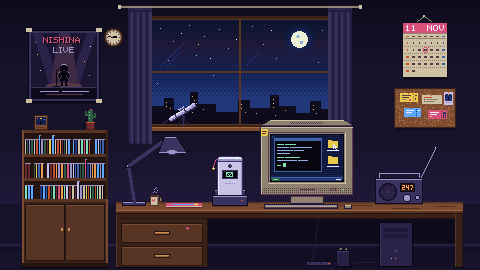
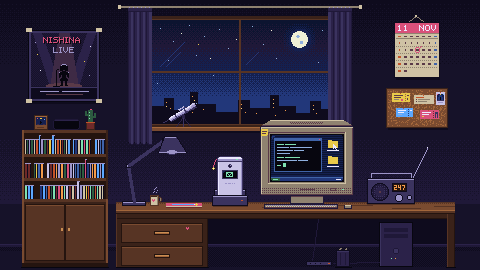
feat(home): 房間的名牌只寫去哪、右邊那組往左挪、掛鐘換成書櫃上的數位鬧鐘
- 名牌拿掉物品名稱, 只留點了會去哪 (しっぽ 只框不寫); 觸控直接點就進去, 不用點兩下
- 月曆、軟木板、しっぽ、收音機一起往左 8 格 (天線跟愛心照樣差 1 格), 桌子跟著收在しっぽ底下
- 掛鐘拿掉, 書櫃上相框跟仙人掌中間放一台黑底綠字的鬧鐘, 跟著現在的時間走, 2:47 / 14:47 變粉紅

diff --git a/public/js/room.js b/public/js/room.js
@@ -2,16 +2,16 @@
  *
  * 房間是 480×270 的像素畫: 依畫面算一個倍率 --s, 對齊螢幕實體像素, 放大後每一格一樣大。
  * 直的螢幕塞不下就照高度放大、左右滑著看, 一開始停在手機那邊。
- * 熱區: 滑鼠滑過去出現名牌; 觸控裝置第一下先看名牌, 再點一下才進去。
+ * 熱區: 滑鼠滑過去四個角框起來, 名牌只寫點了會去哪; 觸控直接點就進去。
  * 手機 = 把網頁版 N247i 拿起來 (疊一層, 闔上就放回去); 電腦 = 指令列; しっぽ 點了會晃; 檯燈可以開關 (記在瀏覽器)。
- * 海報 = 今日の一曲的封面 (跟 N247i 待受同一首), 用房間的色盤重畫; 月曆每天自己翻到今天, 圈下一場。
+ * 海報 = 今日の一曲的封面 (跟 N247i 待受同一首), 用房間的色盤重畫; 月曆每天自己翻到今天, 圈下一場;
+ * 書櫃上的鬧鐘是現在幾點 (2:47 / 14:47 會變粉紅)。
  */
 (() => {
   const root = document.querySelector('[data-room]');
   if (!root) return;
   const pan = root.querySelector('.rm-pan'), stage = root.querySelector('.rm-stage'), tip = root.querySelector('.rm-tip');
   const shippo = stage.querySelector('.rm-shippo');
-  const coarse = matchMedia('(pointer: coarse)').matches;
   const still = matchMedia('(prefers-reduced-motion: reduce)').matches;
   const W = 480, H = 270, PHONE_X = 230;
   const v = (el, k) => +el.style.getPropertyValue('--' + k);
@@ -40,23 +40,20 @@
   function showTip(el) {
     if (cur && cur !== el) cur.classList.remove('on');
     cur = el; el.classList.add('on');
-    tip.querySelector('b').textContent = el.dataset.name;
-    tip.querySelector('i').textContent = el.dataset.sub;
+    tip.textContent = el.dataset.sub;
+    if (!el.dataset.sub) return tip.classList.remove('show');   // しっぽ 只框不寫
     place(el); tip.classList.add('show');
   }
   function hideTip() { if (cur) cur.classList.remove('on'); cur = null; tip.classList.remove('show'); }
 
   /* ---------- 點了之後 ---------- */
   const ACTS = { phone: pickUp, cli: () => window.__shellCli?.open(), shippo: swing, lamp: () => setLamp(!lampOn), none() {} };
-  let armed = true;
   stage.querySelectorAll('.rm-hs').forEach(el => {
     el.addEventListener('pointerenter', e => { if (e.pointerType === 'mouse') { showTip(el); if (el.dataset.act === 'shippo') swing(); } });
     el.addEventListener('pointerleave', e => { if (e.pointerType === 'mouse' && cur === el) hideTip(); });
-    el.addEventListener('pointerdown', e => { armed = e.pointerType === 'mouse' || cur === el; });
     el.addEventListener('focus', () => showTip(el));
     el.addEventListener('blur', () => { if (cur === el) hideTip(); });
     el.addEventListener('click', e => {
-      if (coarse && !armed) { e.preventDefault(); showTip(el); armed = true; return; }   // 觸控: 第一下先看名牌
       const act = el.dataset.act;
       if (!act) return;   // 連結照常走
       e.preventDefault();
@@ -93,7 +90,7 @@
   const BAYER = [0, 8, 2, 10, 12, 4, 14, 6, 3, 11, 1, 9, 15, 7, 13, 5];
   function drawPoster(song) {
     const spot = stage.querySelector('[data-k="poster"]');
-    spot.href = `/live/full/${song.id}/`; spot.dataset.name = '今日の一曲'; spot.dataset.sub = `${song.title} · 完整 Live`;
+    spot.href = `/live/full/${song.id}/`; spot.dataset.sub = `${song.title} · 完整 Live`;
     spot.setAttribute('aria-label', `今日の一曲: ${song.title} 的完整 Live`);
     if (!song.cover) return;
     const img = new Image();
@@ -151,17 +148,31 @@
   drawCal(null);
   fetch('/n247i.json').then(r => r.json()).then(d => {
     const next = (d.upcoming || []).find(e => e.date >= today), cal = stage.querySelector('[data-k="calendar"]');
-    if (next) cal.dataset.sub = `下一場 ${+next.date.slice(5, 7)}/${+next.date.slice(8)} ${next.venue}`;
+    if (next) cal.dataset.sub = `Live 演出 · 下一場 ${+next.date.slice(5, 7)}/${+next.date.slice(8)}`;
     drawCal(next);
     const song = d.songs.length ? d.songs[jstDay % d.songs.length] : null;   // N247i 的今日の一曲也是這樣挑
     if (song) drawPoster(song);
   }).catch(() => {});
 
-  /* 底下的提示: 點了捲到一般版首頁 */
-  root.querySelector('.rm-hint')?.addEventListener('click', e => {
-    e.preventDefault();
-    scrollTo({ top: scrollY + root.getBoundingClientRect().bottom - 56, behavior: still ? 'auto' : 'smooth' });
-  });
+  /* ---------- 書櫃上的鬧鐘: 黑底綠字, 跟著現在的時間走 ---------- */
+  const DIG = { 0: [7, 5, 5, 5, 7], 1: [1, 1, 1, 1, 1], 2: [7, 1, 7, 4, 7], 3: [7, 1, 7, 1, 7], 4: [5, 5, 7, 1, 1],
+    5: [7, 4, 7, 1, 7], 6: [7, 4, 7, 5, 7], 7: [7, 1, 1, 1, 1], 8: [7, 5, 7, 5, 7], 9: [7, 5, 7, 1, 7] };   // 3×5 的七段數字
+  const clock = stage.querySelector('.rm-clock'), cx = clock.getContext('2d');
+  function tickClock() {
+    const d = new Date(), hh = String(d.getHours()).padStart(2, '0'), mm = String(d.getMinutes()).padStart(2, '0');
+    const col = mm === '47' && (hh === '02' || hh === '14') ? '#d9507a' : '#7ee0b0';   // にしな = 2:47
+    cx.fillStyle = '#07060f'; cx.fillRect(0, 0, 25, 8); cx.fillStyle = col;
+    [...hh, ':', ...mm].forEach((ch, i) => {
+      const x0 = 4 + i * 4 - (i > 2 ? 2 : 0);
+      if (ch === ':') { if (d.getSeconds() % 2 === 0) { cx.fillRect(x0, 2, 1, 1); cx.fillRect(x0, 4, 1, 1); } return; }
+      DIG[ch].forEach((row, r) => { for (let b = 0; b < 3; b++) if (row & (4 >> b)) cx.fillRect(x0 + b, 1 + r, 1, 1); });
+    });
+    clock.classList.add('on');
+  }
+  tickClock(); setInterval(tickClock, 1000);
+
+  /* 直的螢幕一開始提示可以左右滑, 滑過就不用了 */
+  pan.addEventListener('scroll', () => root.querySelector('.rm-swipe')?.remove(), { once: true, passive: true });
 
   /* ---------- 拿起手機 ---------- */
   function pickUp() {

diff --git a/public/css/room.css b/public/css/room.css
@@ -1,7 +1,8 @@
 /* room.css — 首頁的房間 (行為在 /js/room.js, 圖 /img/room/*.png)
    class 全部 rm- 開頭。房間原圖 480×270, 所有座標都用原圖像素寫, 乘上 --s (倍率) 才是螢幕上的大小。 */
 
-.rm { position: relative; height: calc(100svh - 56px); min-height: 320px; background: #161229; overflow: hidden; }
+.rm { position: relative; height: 100svh; min-height: 320px;   /* 首頁就只有房間, 整個畫面都是它 */
+  background: #161229; overflow: hidden; }
 .rm-pan { position: absolute; inset: 0; display: flex; overflow-x: auto; overflow-y: hidden; scrollbar-width: none; overscroll-behavior-x: contain; }
 .rm-pan::-webkit-scrollbar { display: none; }
 .rm-stage { --s: 2; position: relative; flex: none; margin: auto; width: calc(480px * var(--s)); height: calc(270px * var(--s)); }
@@ -11,12 +12,12 @@
 .rm-px, .rm-hs, .rm-sky, .rm-scan, .rm-cv { position: absolute; left: calc(var(--x) * var(--s) * 1px); top: calc(var(--y) * var(--s) * 1px);
   width: calc(var(--w, 1) * var(--s) * 1px); height: calc(var(--h, 1) * var(--s) * 1px); }
 .rm-px, .rm-sky, .rm-scan, .rm-cv { pointer-events: none; }
-/* 海報、月曆: room.js 用房間的色盤畫好才顯示, 畫不出來就留原圖 */
+/* 海報、月曆、鬧鐘: room.js 畫好才顯示, 畫不出來就留原圖 */
 .rm-cv { image-rendering: pixelated; }
 .rm-cv:not(.on) { visibility: hidden; }
 
-/* しっぽ: 掛在軟木板的圖釘上 (原圖 447,124), 平常微微晃, 點了或滑過去晃大一點 */
-.rm-shippo { transform-origin: 93.13% 45.93%; animation: rm-sway 7s ease-in-out infinite; }
+/* しっぽ: 掛在軟木板的圖釘上 (原圖 439,124), 平常微微晃, 點了或滑過去晃大一點 */
+.rm-shippo { transform-origin: 91.46% 45.93%; animation: rm-sway 7s ease-in-out infinite; }
 .rm-shippo.swing { animation: rm-swing 1.8s ease-out; }
 @keyframes rm-sway { 0%, 100% { rotate: 0deg; } 30% { rotate: 1.2deg; } 65% { rotate: -.8deg; } }
 @keyframes rm-swing { 0% { rotate: 0deg; } 15% { rotate: 9deg; } 35% { rotate: -6deg; } 55% { rotate: 3.5deg; } 75% { rotate: -1.5deg; } 100% { rotate: 0deg; } }
@@ -37,7 +38,7 @@
 .rm-sky i { position: absolute; width: calc(var(--s) * 9px); height: calc(var(--s) * 1px); transform-origin: left center; rotate: -26.6deg;
   background: linear-gradient(90deg, #ece8ff, rgb(236 232 255 / 0)); }
 
-/* 熱區: 平常看不到, 滑過去 / 鍵盤停到 / 觸控點第一下 → 四個角框起來 */
+/* 熱區: 平常看不到, 滑過去 / 鍵盤停到 → 四個角框起來 */
 .rm-hs { display: block; padding: 0; border: 0; background: none; cursor: pointer; outline: none; -webkit-tap-highlight-color: transparent;
   --c: #ece8ff; --t: calc(var(--s) * 1px); --l: calc(var(--s) * 4px); }
 .rm-hs:is(:hover, :focus-visible, .on) {
@@ -48,27 +49,18 @@
     linear-gradient(var(--c) 0 0) right bottom / var(--l) var(--t), linear-gradient(var(--c) 0 0) right bottom / var(--t) var(--l);
   background-repeat: no-repeat; }
 
-/* 名牌: 浮在東西上面 (太靠上就放下面) */
-.rm-tip { position: absolute; z-index: 3; transform: translate(-50%, -100%); margin-top: -6px; padding: 6px 10px; pointer-events: none;
-  font: 12px/1.5 var(--sh-px, monospace); color: #ece8ff; background: #0e0b1d; border: 2px solid #ece8ff; box-shadow: 3px 3px 0 #07060f;
-  white-space: nowrap; text-align: center; opacity: 0; transition: opacity .12s steps(2); }
-.rm-tip.below { transform: translate(-50%, 0); margin-top: 6px; }
+/* 名牌: 只寫點了會去哪, 小小一行浮在東西上面 (太靠上就放下面) */
+.rm-tip { position: absolute; z-index: 3; transform: translate(-50%, -100%); margin-top: -4px; padding: 2px 8px; pointer-events: none;
+  font: 12px/1.5 var(--sh-px, monospace); color: #ece8ff; background: rgb(14 11 29 / .82); white-space: nowrap;
+  opacity: 0; transition: opacity .12s steps(2); }
+.rm-tip.below { transform: translate(-50%, 0); margin-top: 4px; }
 .rm-tip.show { opacity: 1; }
-.rm-tip b { display: block; font-weight: 400; }
-.rm-tip i { display: block; font-style: normal; color: #9d95c9; }
 
-/* 房間底下的提示, 點了捲到一般版首頁 */
-.rm-hint { position: absolute; left: 50%; bottom: 12px; transform: translateX(-50%); z-index: 2; padding: 4px 10px;
-  font: 12px var(--sh-px, monospace); color: #9d95c9; background: rgb(14 11 29 / .85); border: 2px solid #3b335f;
-  text-decoration: none; white-space: nowrap; }
-.rm-hint:hover { color: #ece8ff; border-color: #9d95c9; }
-.rm-narrow { display: none; }
-/* 窄螢幕: 底下有站上的 N247i 按鈕, 提示改放上面、換短句 */
-@media (max-width: 640px) {
-  .rm-hint { top: 10px; bottom: auto; }
-  .rm-wide { display: none; }
-  .rm-narrow { display: inline; }
-}
+/* 直的螢幕要左右滑才看得完, 一開始提示一下就淡掉 */
+.rm-swipe { display: none; position: absolute; left: 50%; bottom: 18px; transform: translateX(-50%); margin: 0; padding: 2px 8px; pointer-events: none;
+  font: 12px var(--sh-px, monospace); color: #c9c3e6; background: rgb(14 11 29 / .7); animation: rm-fade 4s steps(8) forwards; }
+@keyframes rm-fade { 0%, 60% { opacity: 1; } 100% { opacity: 0; } }
+@media (orientation: portrait) { .rm-swipe { display: block; } }
 
 /* 拿起手機: 疊一層, 裡面是網頁版 N247i */
 .rm-pick { position: fixed; inset: 0; z-index: 90; display: grid; place-items: center; background: rgb(7 6 15 / .78); }
@@ -79,4 +71,5 @@
 @media (prefers-reduced-motion: reduce) {
   .rm-shippo, .rm-shippo.swing, .rm-led-mail, .rm-led-hdd, .rm-cursor, .rm-scan i { animation: none; }
   .rm-led-hdd, .rm-cursor { opacity: 0; }
+  .rm-swipe { animation: none; }
 }
